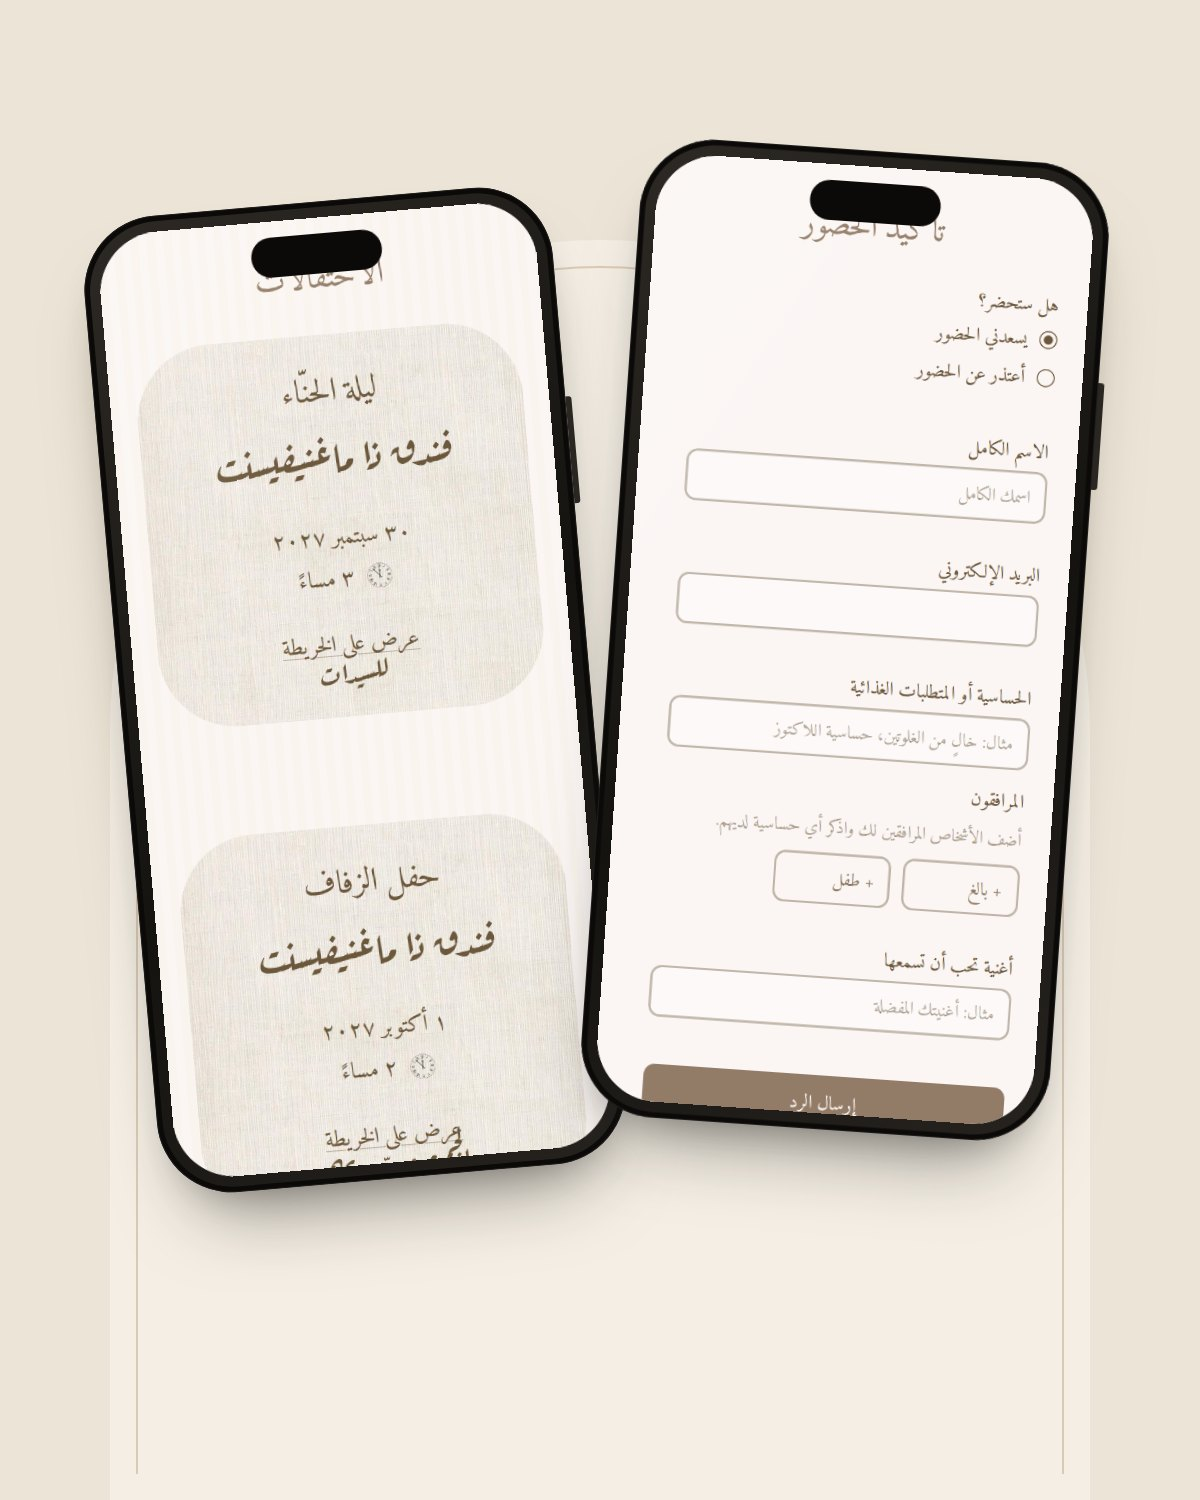
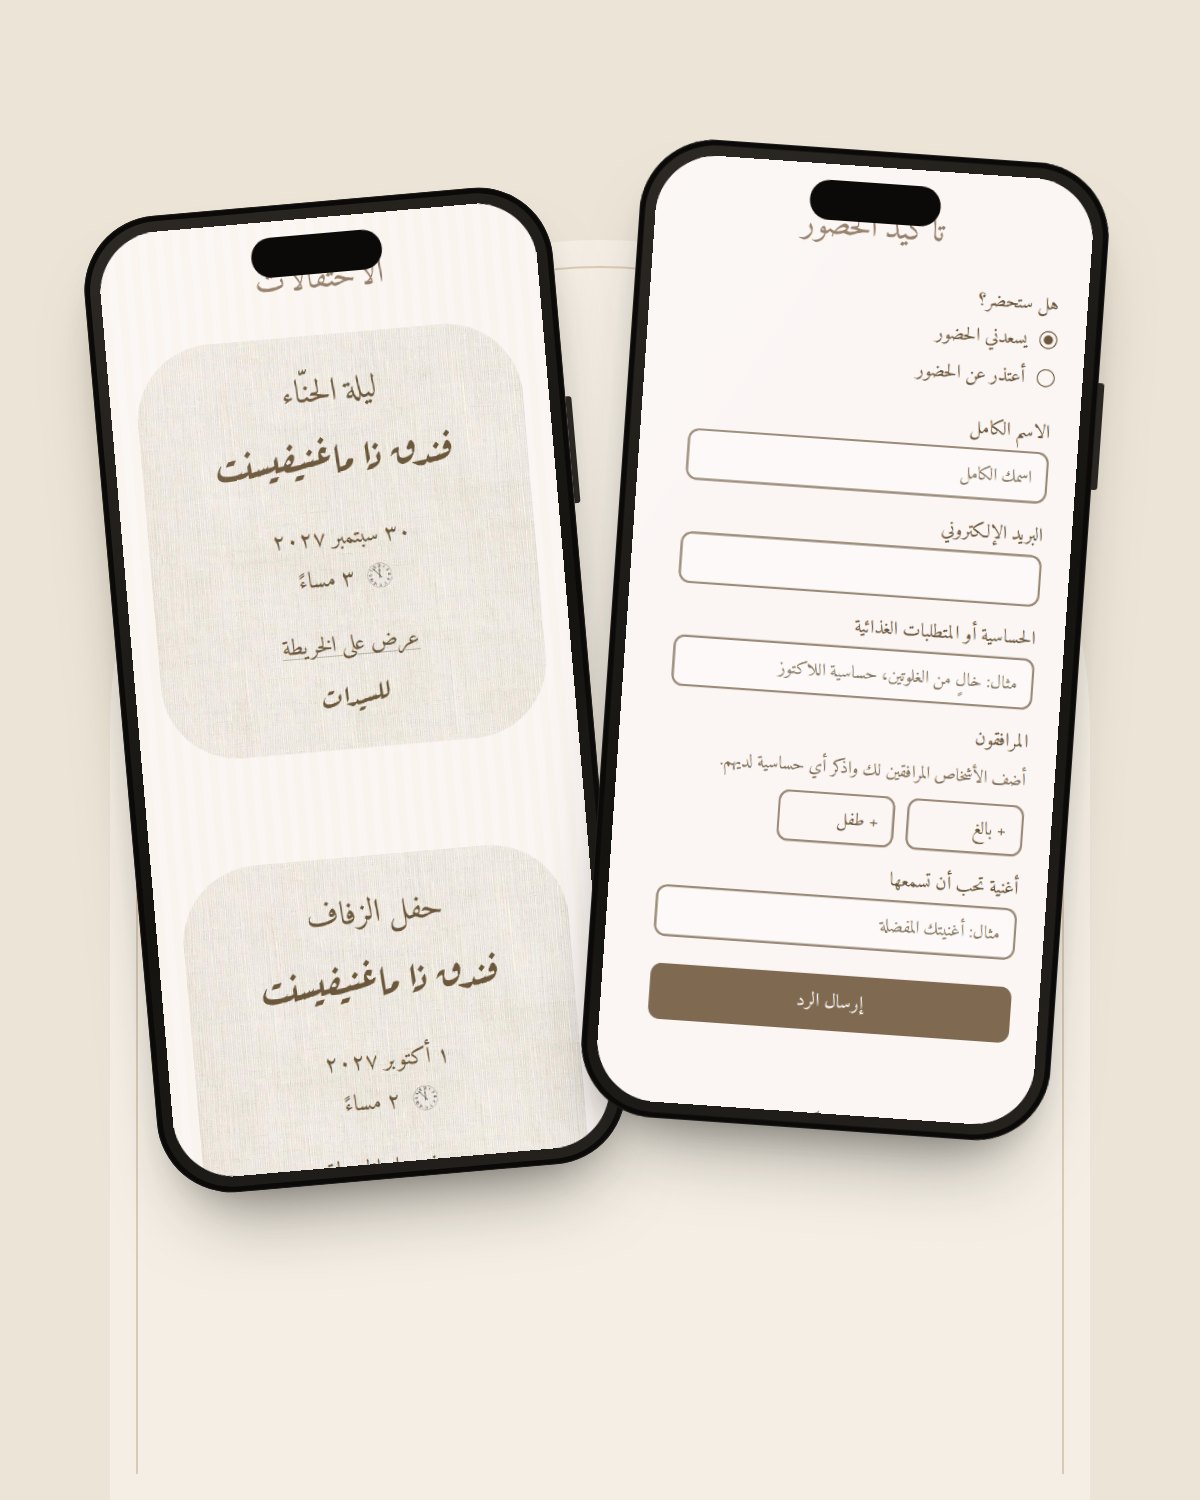
Été: fixes from the verification pass
- Page two keeps the garden below the words on every screen (the Hijri line and
  landscape phones no longer overlap the centrepiece); smaller landscape type;
  slides never taller than the screen unless content needs it
- Celebration date/time shown as written are escaped after digit conversion
- Small-text contrast (venue place, deadline, closing line, short screens) and a
  visible focus ring on text fields
- Footer calendar menu stays on screen on phones (LTR and RTL); Escape returns
  focus to its button (all designs)
- If invitation.js never runs, the envelope steps aside instead of trapping the
  page (all designs)
- Sheet script bolds new headings; docs wording; refreshed Été product photos

Claude-Session: https://claude.ai/code/session_01TSbksE2phi9CGjShB4ctKw

diff --git a/assets/invitation-ete.css b/assets/invitation-ete.css
@@ -27,7 +27,7 @@
   --ete-stripe: #FAF4EE;
   /* Herr Von Muellerhoff runs wider than the design's script, so it is set a little smaller. */
   --ete-script-scale: 0.8;
-  --u: max(min(100vw / 1366, 100vh / 720), min(100vw / 620, 0.75px, 100vh / 768));
+  --u: max(min(100vw / 1366, 100vh / 768), min(100vw / 620, 0.75px, 100vh / 768));
   --s: var(--u);
   background: var(--inv-bg);
   color: var(--ete-text);
@@ -36,7 +36,7 @@
   line-height: 1.4;
 }
 @supports (height: 100svh) {
-  .inv--ete { --u: max(min(100vw / 1366, 100svh / 720), min(100vw / 620, 0.75px, 100svh / 768)); }
+  .inv--ete { --u: max(min(100vw / 1366, 100svh / 768), min(100vw / 620, 0.75px, 100svh / 768)); }
 }
 @media (min-width: 700px) {
   .inv.inv--ete { background: var(--inv-bg); }
@@ -218,13 +218,16 @@ html:not(.js) .ete-envelope { display: none; }
   display: flex;
   flex-direction: column;
   align-items: center;
+  /* The garden is 508 units tall from the bottom: the words get the rest, and when they need
+     more (a Hijri line, a long note, landscape phones) the slide grows instead of overlapping. */
+  padding-bottom: calc(508 * var(--g));
 }
 .ete-hero__text {
   position: relative;
   z-index: 1;
   display: grid;
   justify-items: center;
-  padding: calc(28 * var(--u)) 16px 0;
+  padding: calc(28 * var(--u)) 16px calc(12 * var(--u));
 }
 .ete-names {
   margin: calc(14 * var(--u)) 0 0;
@@ -249,6 +252,14 @@ html:not(.js) .ete-envelope { display: none; }
     justify-content: center;
   }
   .ete-hero__text { padding-block: 32px 12px; }
+}
+/* Landscape phones: smaller words so page two still fits the screen. */
+@media (orientation: landscape) and (max-height: 500px) {
+  .ete-hero .ete-kicker { font-size: max(calc(46.7 * var(--u)), 20px); }
+  .ete-names { font-size: max(calc(81.5 * var(--u) * var(--ete-script-scale)), 30px); margin-top: 2px; }
+  .ete-hero__date { font-size: max(calc(32.4 * var(--u)), 14px); margin-top: 4px; }
+  .ete-hero__note { font-size: 13px; margin-top: 2px; }
+  .ete-hero__text { padding-top: 10px; }
 }
 
 /* ------------------------------------------------------------------ 3 · countdown */
@@ -330,14 +341,15 @@ html:not(.js) .ete-envelope { display: none; }
   font-size: max(calc(32.4 * var(--u)), 19px);
   color: var(--ete-title);
 }
-@media (max-width: 699px) {
-  .ete-hero__date, .ete-venue__name, .ete-venue__place { color: var(--ete-small); }
+/* Where these fall below 24px (phones, short screens) they use the darker brown. */
+@media (max-width: 699px), (max-height: 575px) {
+  .ete-hero__date, .ete-venue__name { color: var(--ete-small); }
 }
 .ete-venue__place {
   margin-top: calc(16 * var(--u));
   font-size: max(calc(26.7 * var(--u)), 17px);
   font-style: italic;
-  color: var(--ete-title);
+  color: var(--ete-small);
 }
 .inv--ete[lang='ar'] .ete-venue__place { font-style: normal; }
 
@@ -496,7 +508,7 @@ html:not(.js) .ete-envelope { display: none; }
 /* ------------------------------------------------------------------ 9 · RSVP */
 .ete-rsvp { padding: calc(49 * var(--u)) 16px calc(64 * var(--u)); }
 .ete-rsvp > .ete-title { margin-bottom: calc(39 * var(--u)); }
-.ete-rsvp__deadline { margin: calc(-20 * var(--u)) 0 calc(20 * var(--u)); font-size: max(calc(21.3 * var(--u)), 16px); font-style: italic; color: var(--ete-title); }
+.ete-rsvp__deadline { margin: calc(-20 * var(--u)) 0 calc(20 * var(--u)); font-size: max(calc(21.3 * var(--u)), 16px); font-style: italic; color: var(--ete-small); }
 .ete-rsvp__body { position: relative; z-index: 1; width: min(calc(539 * var(--u)), 100%); margin-inline: auto; text-align: start; }
 @media (max-width: 899px) { .ete-rsvp__vase { display: none; } }
 .inv--ete .ete-form { display: grid; gap: 0; }
@@ -552,7 +564,7 @@ html:not(.js) .ete-envelope { display: none; }
 }
 .ete-form input::placeholder { color: rgba(107, 87, 59, 0.8); opacity: 1; }
 .ete-form input[type='text']:focus,
-.ete-form input[type='email']:focus { outline: none; border-color: var(--ete-title); background: rgba(255, 255, 255, 0.6); }
+.ete-form input[type='email']:focus { outline: none; border-color: var(--ete-text); box-shadow: 0 0 0 1px var(--ete-text); background: rgba(255, 255, 255, 0.6); }
 .ete-form input[type='email'] { text-align: start; }
 .ete-rsvp__attending { display: grid; }
 .ete-companions .ete-field__hint { margin-top: max(calc(18 * var(--u)), 4px); }
@@ -640,9 +652,16 @@ html:not(.js) .ete-envelope { display: none; }
 /* ------------------------------------------------------------------ footer */
 .ete-footer { display: grid; justify-items: center; gap: 16px; padding: 24px 16px 56px; text-align: center; }
 .ete-footer__names { font-size: 3.2rem; line-height: 1; color: var(--ete-title); }
-.ete-footer__closing { font-size: 1.2rem; font-style: italic; color: var(--ete-title); }
+.ete-footer__closing { font-size: 1.2rem; font-style: italic; color: var(--ete-small); }
 .ete-footer__actions { display: flex; flex-wrap: wrap; justify-content: center; gap: 12px; }
-.ete-footer .inv-calendar__menu { inset-block-start: auto; inset-block-end: calc(100% + 8px); }
+.ete-footer .inv-calendar__menu,
+[dir='rtl'] .ete-footer .inv-calendar__menu {
+  inset-block-start: auto;
+  inset-block-end: calc(100% + 8px);
+  inset-inline-start: 0;
+  translate: none;
+  max-width: calc(100vw - 32px);
+}
 .inv--ete .inv-footer__credit { font-family: var(--ete-serif); font-size: 0.85rem; letter-spacing: 0.04em; color: var(--ete-text); opacity: 1; }
 
 /* ------------------------------------------------------------------ motion */

diff --git a/assets/invitation.js b/assets/invitation.js
@@ -1,5 +1,6 @@
 /* Maison — live invitation behaviour: envelope, countdown, Hijri date, calendar,
    RSVP (Shopify form · Google Sheet · WhatsApp), music, share, reveal. */
+window.__invReady = true; // the layout opens the page without the envelope if this never runs
 (() => {
   const root = document.querySelector('[data-invitation]');
   if (!root) return;
@@ -174,7 +175,12 @@
       setOpen(menu.hidden);
     });
     document.addEventListener('click', (e) => !calendar.contains(e.target) && setOpen(false));
-    document.addEventListener('keydown', (e) => e.key === 'Escape' && setOpen(false));
+    document.addEventListener('keydown', (e) => {
+      if (e.key !== 'Escape' || menu.hidden) return;
+      const hadFocus = menu.contains(document.activeElement);
+      setOpen(false);
+      if (hadFocus) toggle.focus();
+    });
   }
 
   /* ---------------------------------------------------------------- rsvp */

diff --git a/docs/ARCHITECTURE.md b/docs/ARCHITECTURE.md
@@ -99,8 +99,8 @@ Built from the "Summer Wedding" Canva design: nine 1366 × 768 slides turned int
 
 * **Scaling:** everything is sized in *design units* (`--u` in `invitation-ete.css`). Wide screens show the whole
   slide. From about 1025 px down to 465 px a unit stays 0.75 px, so the left and right edges crop away progressively,
-  as the design intends; below that the middle 620 units fill the screen. On short screens (landscape phones) a
-  slide is never taller than the screen. Text has readable minimum sizes and sections grow when it needs room. Decorations are placed
+  as the design intends; below that the middle 620 units fill the screen. A slide is never taller than the screen
+  unless its content needs the room (page two grows rather than letting the words overlap the garden). Text has readable minimum sizes and sections grow when it needs room. Decorations are placed
   with their Canva coordinates (`style="--x:…;--y:…;--w:…"`).
 * **Envelope:** the envelope photo is cut into the flap and the pocket along the flap's edge (`clip-path`). On
   tap, `invitation.js` sets `is-opening`: the flap swings up and away, page two shows through the opening, and
